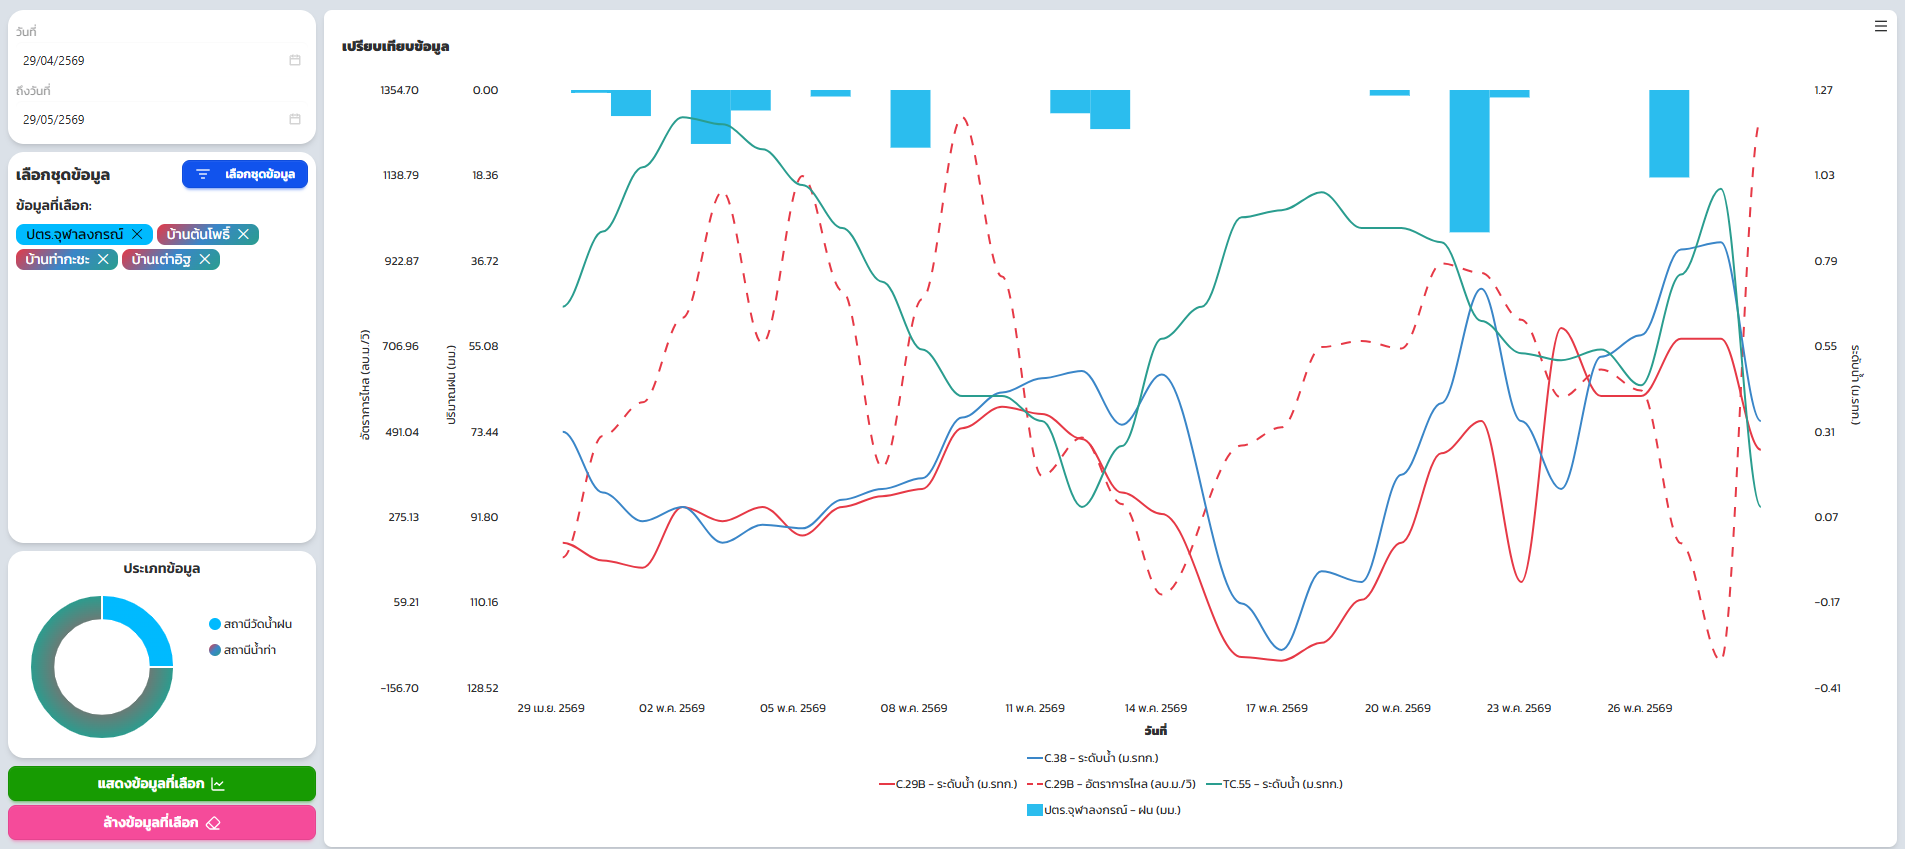
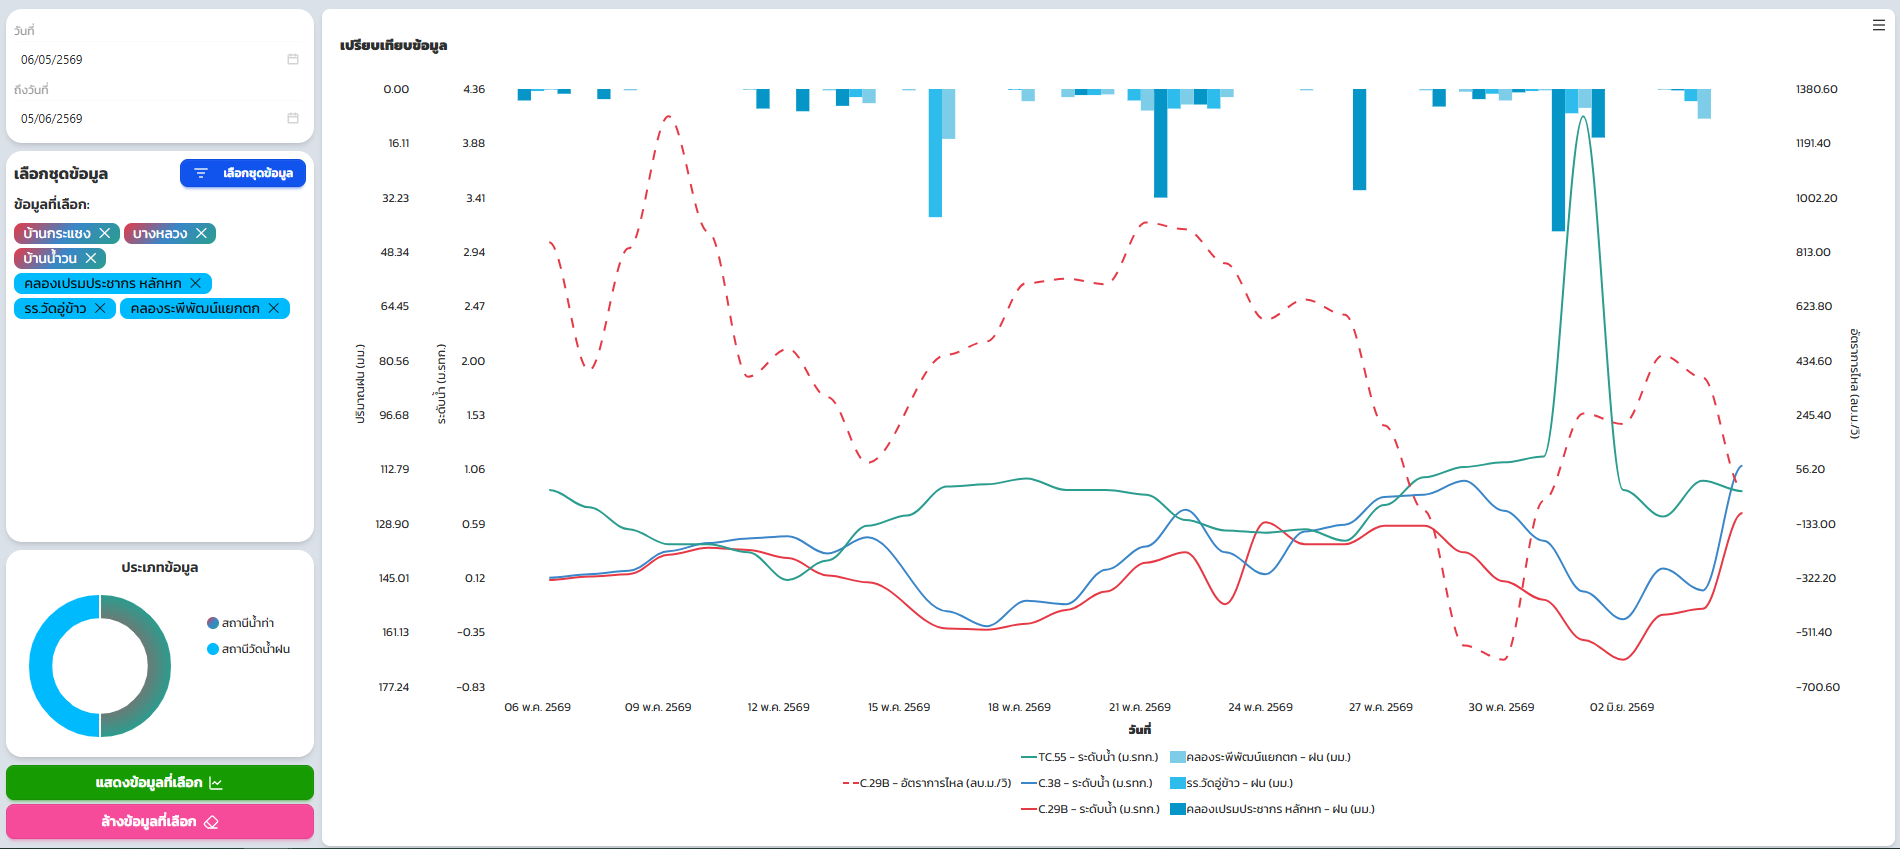
edit pathumthani

diff --git a/src/app/components/pathumthani.js b/src/app/components/pathumthani.js
@@ -10,110 +10,41 @@ export const PROJECT_META = {
 
 export const STATIONS = [
   {
-    id: "PTR_BAAN_TON_PHO",
-    code: "สถานีบ้านต้นโพธิ์",
-    name: "สถานีบ้านต้นโพธิ์",
-    shortName: "บ้านต้นโพธิ์",
+    id: "PTR_BAAN_KRACHANG",
+    code: "สถานีบ้านกระแชง",
+    name: "สถานีบ้านกระแชง (วัดโพธิ์เลื่อน)",
+    shortName: "บ้านกระแชง",
     type: "gauging",
-    status: "ok",
-    desc: "สถานีวัดระดับน้ำบ้านต้นโพธิ์ บนแม่น้ำเจ้าพระยา",
-    readings: { U: 2.45, D: null, O: null, P: null },
+    status: "danger",
+    desc: "สถานีวัดระดับน้ำบ้านกระแชง (วัดโพธิ์เลื่อน) บนแม่น้ำเจ้าพระยา",
+    readings: { U: 2.68, D: null, O: null, P: null },
     info: {
-      province: "ปทุมธานี", district: "สามโคก", subdistrict: "บ้านต้นโพธิ์",
+      province: "ปทุมธานี", district: "สามโคก", subdistrict: "กระแชง",
       region: "ภาคกลาง", basin: "เจ้าพระยา", office: "โครงการชลประทานปทุมธานี",
-      lat: 14.076735, lng: 100.568503, buildYear: "2545", completeYear: "2546",
+      lat: 14.032115885861279, lng: 100.54660208298553, buildYear: "2545", completeYear: "2546",
       gateCount: null, gateType: null, gateWidth: null, gateHeight: null,
       maxDischarge: null, spillLevel: 0, floodLevel: 4.5, normalLevel: 2.0,
-      pumps: [], additionalCanal: "แม่น้ำเจ้าพระยา", remark: "N/A"
+      pumps: [], additionalCanal: "แม่น้ำเจ้าพระยา", remark: "ระดับน้ำสูงวิกฤต"
     },
     series: {
-      level: [2.38,2.39,2.40,2.41,2.42,2.43,2.44,2.45,2.45,2.44,2.43,2.42,2.42,2.43,2.44,2.45,2.45,2.46,2.46,2.45,2.45,2.44,2.44,2.45],
+      level: [2.55,2.57,2.58,2.59,2.60,2.62,2.63,2.65,2.66,2.67,2.68,2.68,2.67,2.67,2.68,2.68,2.68,2.69,2.69,2.68,2.68,2.67,2.67,2.68],
       flow:  [0,0,0,0,0,0,0,0,0,0,0,0,0,0,0,0,0,0,0,0,0,0,0,0],
-      rain:  [0,0,2,4,6,3,1,0,0,0,3,5,2,0,0,0,1,3,5,3,1,0,0,0],
+      rain:  [0,0,4,8,12,7,3,1,0,0,5,9,5,2,0,0,2,5,10,7,4,1,0,0],
     }
   },
   {
-    id: "PTR_BAAN_THA_KACHA",
-    code: "สถานีบ้านท่ากะชะ",
-    name: "สถานีบ้านท่ากะชะ",
-    shortName: "บ้านท่ากะชะ",
+    id: "PTR_BANG_LUANG",
+    code: "สถานีบางหลวง",
+    name: "สถานีบางหลวง (ชุมชนบางหลวง) เจดีย์เก่าวัดบางหลวงนอก",
+    shortName: "บางหลวง",
     type: "gauging",
     status: "ok",
-    desc: "สถานีวัดระดับน้ำบ้านท่ากะชะ บนแม่น้ำเจ้าพระยา",
-    readings: { U: 2.38, D: null, O: null, P: null },
-    info: {
-      province: "ปทุมธานี", district: "สามโคก", subdistrict: "บ้านท่ากะชะ",
-      region: "ภาคกลาง", basin: "เจ้าพระยา", office: "โครงการชลประทานปทุมธานี",
-      lat: 14.04286, lng: 100.583688, buildYear: "2545", completeYear: "2546",
-      gateCount: null, gateType: null, gateWidth: null, gateHeight: null,
-      maxDischarge: null, spillLevel: 0, floodLevel: 4.5, normalLevel: 2.0,
-      pumps: [], additionalCanal: "แม่น้ำเจ้าพระยา", remark: "N/A"
-    },
-    series: {
-      level: [2.31,2.32,2.33,2.34,2.35,2.36,2.37,2.38,2.38,2.37,2.36,2.35,2.35,2.36,2.37,2.38,2.38,2.39,2.39,2.38,2.38,2.37,2.37,2.38],
-      flow:  [0,0,0,0,0,0,0,0,0,0,0,0,0,0,0,0,0,0,0,0,0,0,0,0],
-      rain:  [0,0,2,4,6,3,1,0,0,0,3,5,2,0,0,0,1,3,5,3,1,0,0,0],
-    }
-  },
-  {
-    id: "PTR_BAAN_TAO_IT",
-    code: "สถานีบ้านเต่าอิฐ",
-    name: "สถานีบ้านเต่าอิฐ (สน.น้ำมันดิบสำแล)",
-    shortName: "บ้านเต่าอิฐ",
-    type: "gauging",
-    status: "warn",
-    desc: "สถานีวัดระดับน้ำบ้านเต่าอิฐ (สน.น้ำมันดิบสำแล) บนแม่น้ำเจ้าพระยา",
-    readings: { U: 2.52, D: null, O: null, P: null },
-    info: {
-      province: "ปทุมธานี", district: "เมืองปทุมธานี", subdistrict: "บางปรอก",
-      region: "ภาคกลาง", basin: "เจ้าพระยา", office: "โครงการชลประทานปทุมธานี",
-      lat: 14.040789, lng: 100.555166, buildYear: "2546", completeYear: "2547",
-      gateCount: null, gateType: null, gateWidth: null, gateHeight: null,
-      maxDischarge: null, spillLevel: 0, floodLevel: 4.5, normalLevel: 2.0,
-      pumps: [], additionalCanal: "แม่น้ำเจ้าพระยา", remark: "ระดับน้ำสูงกว่าปกติ"
-    },
-    series: {
-      level: [2.44,2.45,2.47,2.48,2.49,2.50,2.51,2.52,2.52,2.51,2.50,2.49,2.49,2.50,2.51,2.52,2.52,2.53,2.53,2.52,2.52,2.51,2.51,2.52],
-      flow:  [0,0,0,0,0,0,0,0,0,0,0,0,0,0,0,0,0,0,0,0,0,0,0,0],
-      rain:  [0,0,2,4,7,4,2,0,0,0,3,5,3,1,0,0,1,3,6,4,2,0,0,0],
-    }
-  },
-  {
-    id: "PTR_BAAN_BANG_LIAB",
-    code: "สถานีบ้านบางเลียบ",
-    name: "สถานีบ้านบางเลียบ",
-    shortName: "บ้านบางเลียบ",
-    type: "gauging",
-    status: "ok",
-    desc: "สถานีวัดระดับน้ำบ้านบางเลียบ บนแม่น้ำเจ้าพระยา",
-    readings: { U: 2.35, D: null, O: null, P: null },
-    info: {
-      province: "ปทุมธานี", district: "เมืองปทุมธานี", subdistrict: "บางเลียบ",
-      region: "ภาคกลาง", basin: "เจ้าพระยา", office: "โครงการชลประทานปทุมธานี",
-      lat: 14.034196, lng: 100.563666, buildYear: "2546", completeYear: "2547",
-      gateCount: null, gateType: null, gateWidth: null, gateHeight: null,
-      maxDischarge: null, spillLevel: 0, floodLevel: 4.5, normalLevel: 2.0,
-      pumps: [], additionalCanal: "แม่น้ำเจ้าพระยา", remark: "N/A"
-    },
-    series: {
-      level: [2.28,2.29,2.30,2.31,2.32,2.33,2.34,2.35,2.35,2.34,2.33,2.32,2.32,2.33,2.34,2.35,2.35,2.36,2.36,2.35,2.35,2.34,2.34,2.35],
-      flow:  [0,0,0,0,0,0,0,0,0,0,0,0,0,0,0,0,0,0,0,0,0,0,0,0],
-      rain:  [0,0,1,3,5,2,0,0,0,0,2,4,2,0,0,0,0,2,4,2,1,0,0,0],
-    }
-  },
-  {
-    id: "PTR_BAAN_BANG_LUANG",
-    code: "สถานีบ้านบางหลวง",
-    name: "สถานีบ้านบางหลวง",
-    shortName: "บ้านบางหลวง",
-    type: "gauging",
-    status: "ok",
-    desc: "สถานีวัดระดับน้ำบ้านบางหลวง บนแม่น้ำเจ้าพระยา",
+    desc: "สถานีวัดระดับน้ำบางหลวง (ชุมชนบางหลวง) บริเวณเจดีย์เก่าวัดบางหลวงนอก บนแม่น้ำเจ้าพระยา",
     readings: { U: 2.28, D: null, O: null, P: null },
     info: {
       province: "ปทุมธานี", district: "ลาดหลุมแก้ว", subdistrict: "บางหลวง",
       region: "ภาคกลาง", basin: "เจ้าพระยา", office: "โครงการชลประทานปทุมธานี",
-      lat: 14.005612, lng: 100.58043, buildYear: "2547", completeYear: "2548",
+      lat: 13.9923546081473, lng: 100.52846559274599, buildYear: "2547", completeYear: "2548",
       gateCount: null, gateType: null, gateWidth: null, gateHeight: null,
       maxDischarge: null, spillLevel: 0, floodLevel: 4.0, normalLevel: 1.9,
       pumps: [], additionalCanal: "แม่น้ำเจ้าพระยา", remark: "N/A"
@@ -125,18 +56,18 @@ export const STATIONS = [
     }
   },
   {
-    id: "PTR_BANG_PHUN",
-    code: "สถานีบางพูน",
-    name: "สถานีบางพูน",
-    shortName: "บางพูน",
+    id: "PTR_BAAN_NAM_WON",
+    code: "สถานีบ้านน้ำวน",
+    name: "สถานีบ้านน้ำวน (วัดน้ำวน)",
+    shortName: "บ้านน้ำวน",
     type: "gauging",
     status: "ok",
-    desc: "สถานีวัดระดับน้ำบางพูน บนแม่น้ำเจ้าพระยา",
+    desc: "สถานีวัดระดับน้ำบ้านน้ำวน (วัดน้ำวน) บนแม่น้ำเจ้าพระยา",
     readings: { U: 2.20, D: null, O: null, P: null },
     info: {
       province: "ปทุมธานี", district: "เมืองปทุมธานี", subdistrict: "บางพูน",
       region: "ภาคกลาง", basin: "เจ้าพระยา", office: "โครงการชลประทานปทุมธานี",
-      lat: 13.990746, lng: 100.572594, buildYear: "2548", completeYear: "2549",
+      lat: 13.974853346792697, lng: 100.52608212910467, buildYear: "2548", completeYear: "2549",
       gateCount: null, gateType: null, gateWidth: null, gateHeight: null,
       maxDischarge: null, spillLevel: 0, floodLevel: 4.0, normalLevel: 1.9,
       pumps: [], additionalCanal: "แม่น้ำเจ้าพระยา", remark: "N/A"
@@ -147,69 +78,30 @@ export const STATIONS = [
       rain:  [0,0,1,2,4,2,0,0,0,0,1,3,1,0,0,0,0,1,3,2,1,0,0,0],
     }
   },
-  {
-    id: "PTR_BAAN_KRACHANG",
-    code: "สถานีบ้านกระแชง",
-    name: "สถานีบ้านกระแชง",
-    shortName: "บ้านกระแชง",
-    type: "gauging",
-    status: "danger",
-    desc: "สถานีวัดระดับน้ำบ้านกระแชง บนแม่น้ำเจ้าพระยา",
-    readings: { U: 2.68, D: null, O: null, P: null },
-    info: {
-      province: "ปทุมธานี", district: "สามโคก", subdistrict: "กระแชง",
-      region: "ภาคกลาง", basin: "เจ้าพระยา", office: "โครงการชลประทานปทุมธานี",
-      lat: 14.035862, lng: 100.549476, buildYear: "2545", completeYear: "2546",
-      gateCount: null, gateType: null, gateWidth: null, gateHeight: null,
-      maxDischarge: null, spillLevel: 0, floodLevel: 4.5, normalLevel: 2.0,
-      pumps: [], additionalCanal: "แม่น้ำเจ้าพระยา", remark: "ระดับน้ำสูงวิกฤต"
-    },
-    series: {
-      level: [2.55,2.57,2.58,2.59,2.60,2.62,2.63,2.65,2.66,2.67,2.68,2.68,2.67,2.67,2.68,2.68,2.68,2.69,2.69,2.68,2.68,2.67,2.67,2.68],
-      flow:  [0,0,0,0,0,0,0,0,0,0,0,0,0,0,0,0,0,0,0,0,0,0,0,0],
-      rain:  [0,0,4,8,12,7,3,1,0,0,5,9,5,2,0,0,2,5,10,7,4,1,0,0],
-    }
-  },
 ];
 
 export const CAMERAS = [
-  { id: 1, name: "บ้านต้นโพธิ์ (CAM-01)",      level: 245, status: "ok",      waterPct: 30, stationId: "PTR_BAAN_TON_PHO" },
-  { id: 2, name: "บ้านกระแชง (CAM-02)",        level: 268, status: "danger",  waterPct: 75, stationId: "PTR_BAAN_KRACHANG" },
-  { id: 3, name: "บ้านเต่าอิฐ (CAM-03)",       level: 252, status: "warning", waterPct: 50, stationId: "PTR_BAAN_TAO_IT" },
-  { id: 4, name: "บ้านท่ากะชะ (CAM-04)",       level: 238, status: "ok",      waterPct: 32, stationId: "PTR_BAAN_THA_KACHA" },
-  { id: 5, name: "บ้านบางเลียบ (CAM-05)",       level: 235, status: "ok",      waterPct: 28, stationId: "PTR_BAAN_BANG_LIAB" },
-  { id: 6, name: "บ้านบางหลวง (CAM-06)",        level: 228, status: "ok",      waterPct: 25, stationId: "PTR_BAAN_BANG_LUANG" },
-  { id: 7, name: "บางพูน (CAM-07)",             level: 220, status: "ok",      waterPct: 22, stationId: "PTR_BANG_PHUN" },
+  { id: 1, name: "บ้านกระแชง (CAM-01)",  level: 268, status: "danger", waterPct: 75, stationId: "PTR_BAAN_KRACHANG" },
+  { id: 2, name: "บางหลวง (CAM-02)",      level: 228, status: "ok",     waterPct: 25, stationId: "PTR_BANG_LUANG" },
+  { id: 3, name: "บ้านน้ำวน (CAM-03)",   level: 220, status: "ok",     waterPct: 22, stationId: "PTR_BAAN_NAM_WON" },
 ];
 
 export const STATION_LIST_FOR_COMPARE = [
-  "PTR_BAAN_TON_PHO",
-  "PTR_BAAN_THA_KACHA",
-  "PTR_BAAN_TAO_IT",
-  "PTR_BAAN_BANG_LIAB",
-  "PTR_BAAN_BANG_LUANG",
-  "PTR_BANG_PHUN",
   "PTR_BAAN_KRACHANG",
+  "PTR_BANG_LUANG",
+  "PTR_BAAN_NAM_WON",
 ];
 
 // ─── MAP STATIONS (พิกัด SVG สำหรับผัง) ─────────────────────────────────────
 // วางสถานีตามแนวแม่น้ำเจ้าพระยา (ไหลจากเหนือ→ใต้ ในแนวตั้ง)
 // ลำดับตาม lat จากมากไปน้อย (เหนือ→ใต้)
 export const MAP_STATIONS = [
-  // lat 14.076735 – เหนือสุด
-  { id: "PTR_BAAN_TON_PHO",      x: 310, y: 80  },
-  // lat 14.040789
-  { id: "PTR_BAAN_TAO_IT",       x: 310, y: 200 },
-  // lat 14.04286 (ใกล้กัน วางเยื้องออกไปด้านขวาเล็กน้อย)
-  { id: "PTR_BAAN_THA_KACHA",    x: 400, y: 240 },
-  // lat 14.035862
-  { id: "PTR_BAAN_KRACHANG",     x: 220, y: 270 },
-  // lat 14.034196
-  { id: "PTR_BAAN_BANG_LIAB",    x: 370, y: 310 },
-  // lat 14.005612
-  { id: "PTR_BAAN_BANG_LUANG",   x: 310, y: 430 },
-  // lat 13.990746 – ใต้สุด
-  { id: "PTR_BANG_PHUN",         x: 310, y: 520 },
+  // lat 14.032116 – เหนือสุด
+  { id: "PTR_BAAN_KRACHANG",  x: 310, y: 150 },
+  // lat 13.992355
+  { id: "PTR_BANG_LUANG",     x: 310, y: 330 },
+  // lat 13.974853 – ใต้สุด
+  { id: "PTR_BAAN_NAM_WON",   x: 310, y: 480 },
 ];
 
 // ─── renderCanals – เส้นทางน้ำ ──────────────────────────────────────────────
